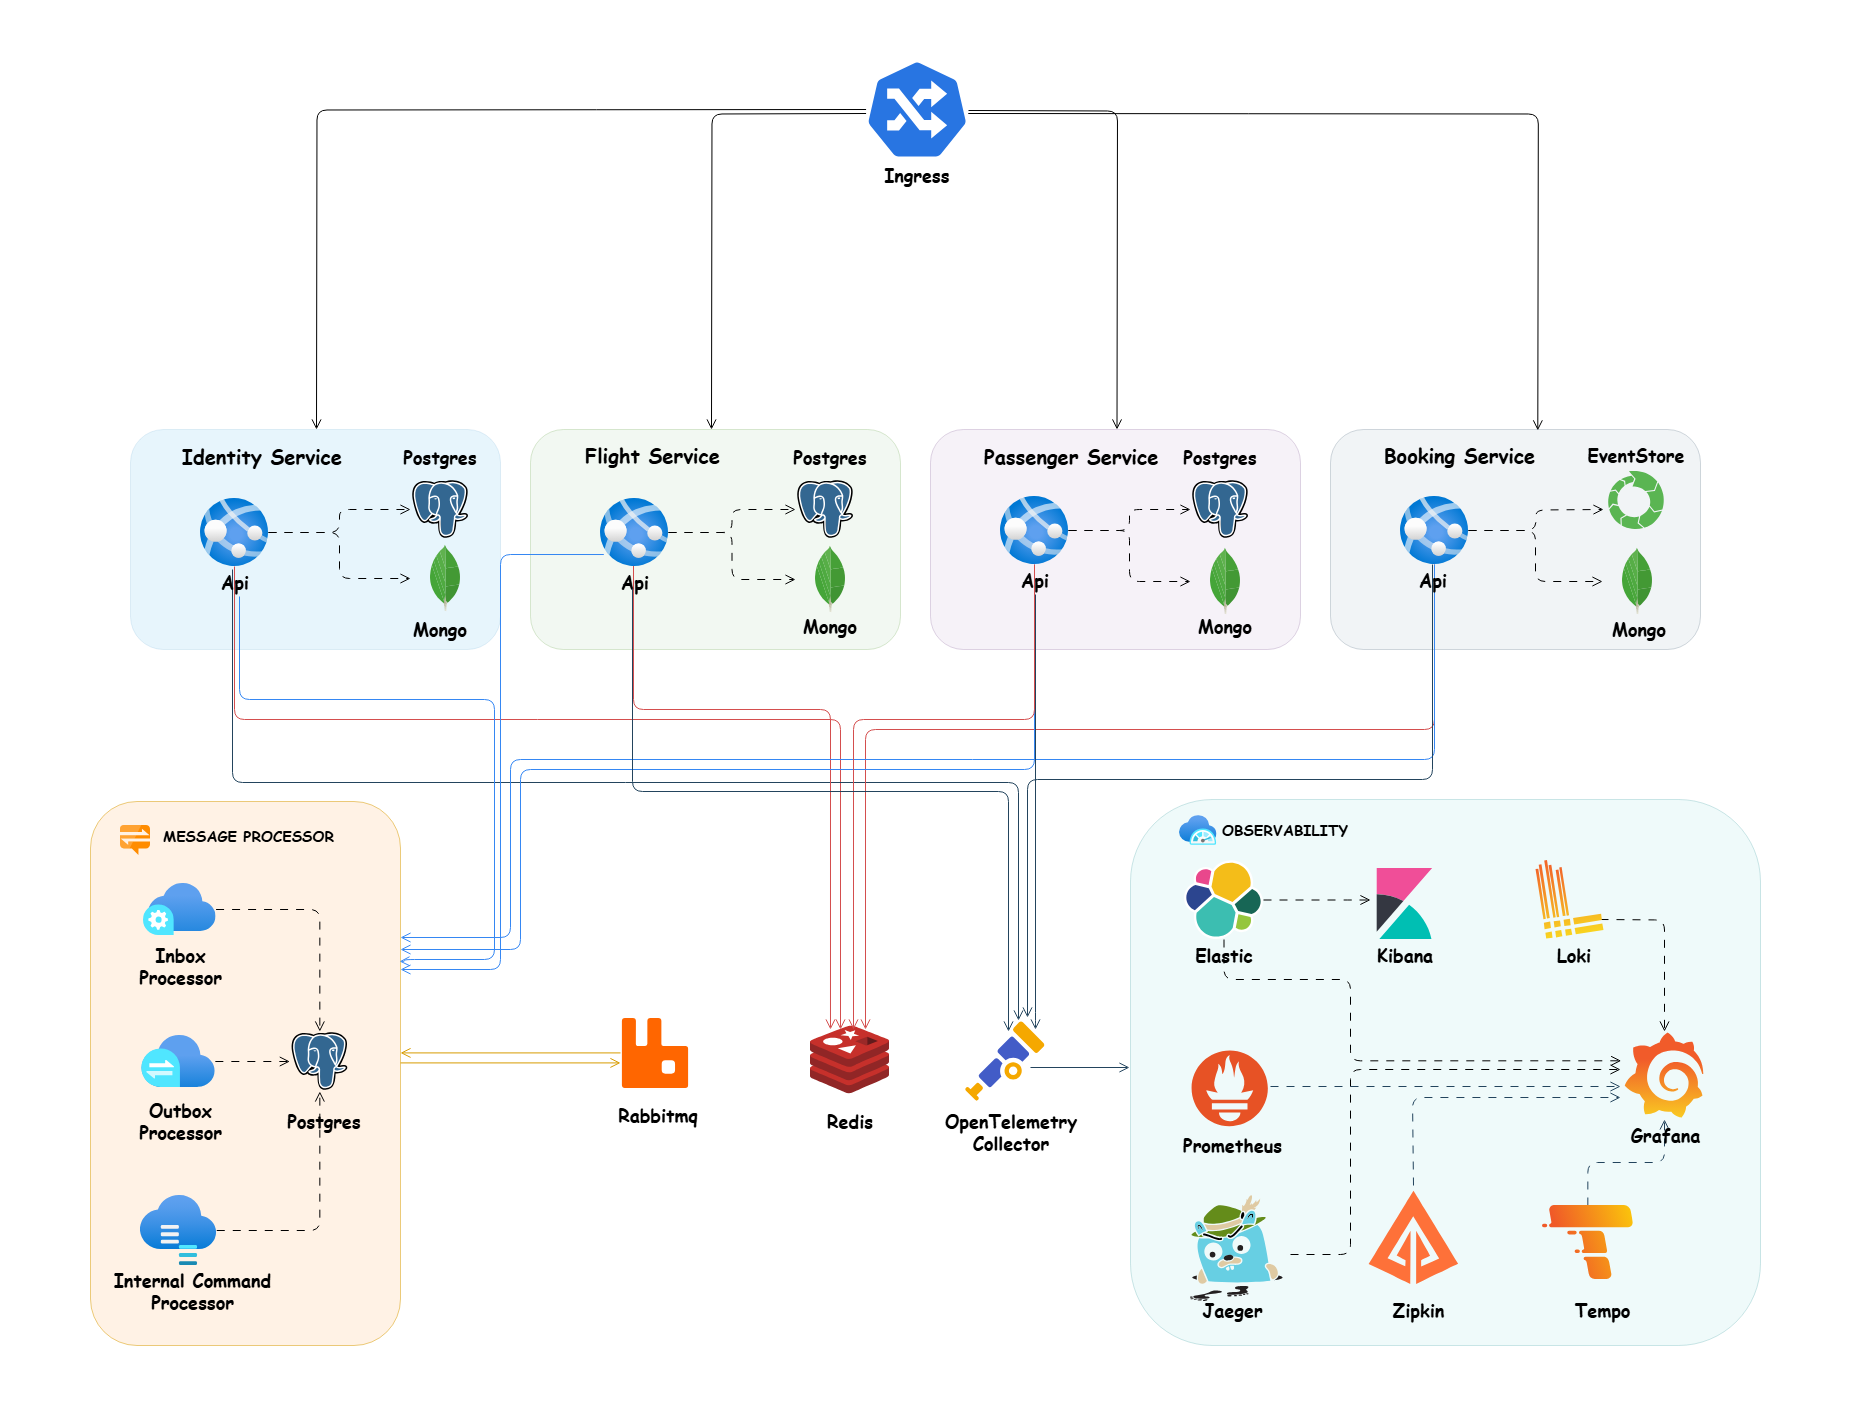
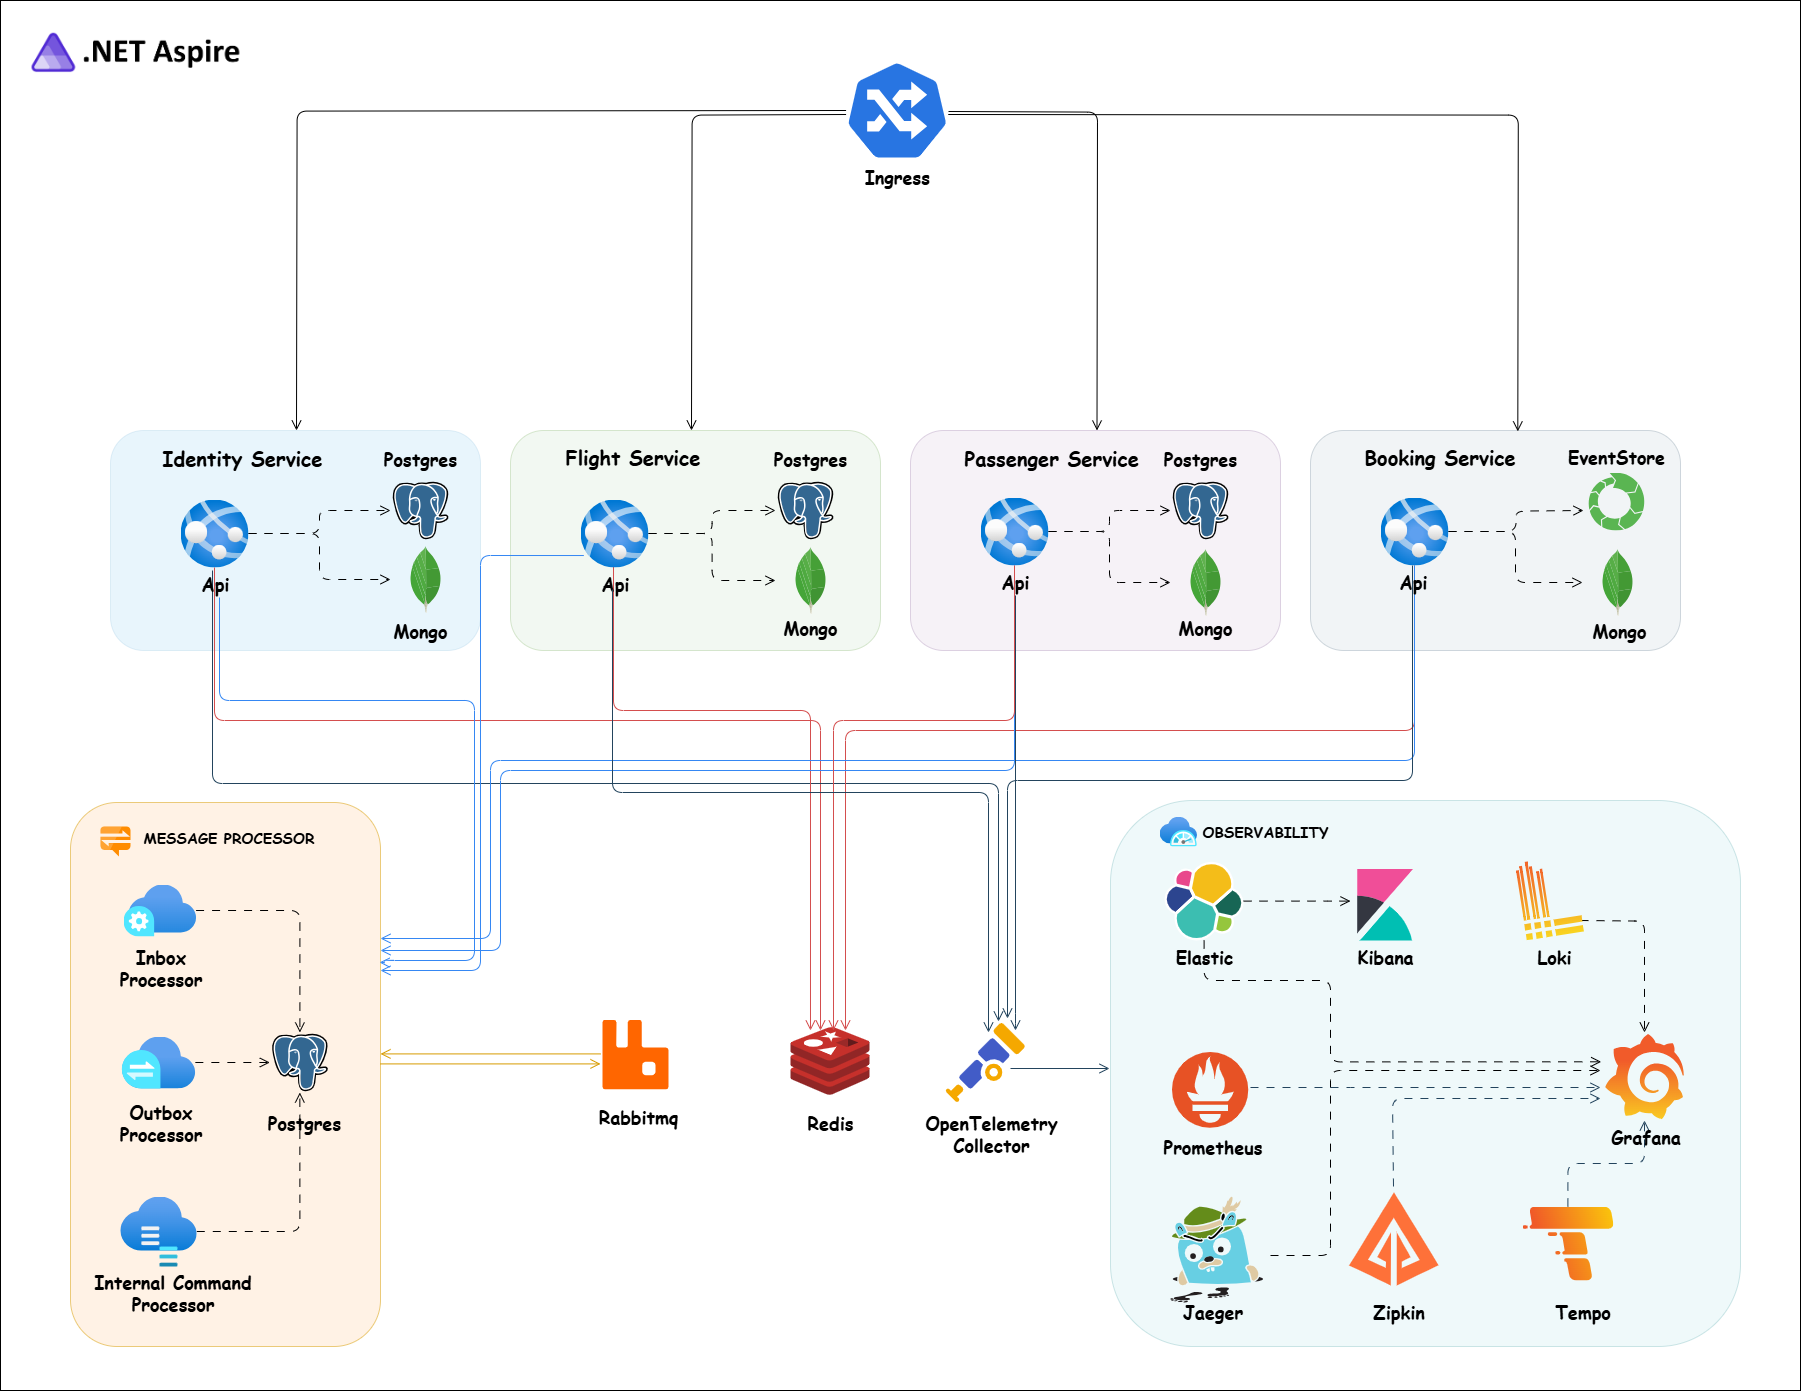
docs: add aspire documentation

diff --git a/README.md b/README.md
@@ -34,6 +34,7 @@
     - [Upgrade Nuget Packages](#upgrade-nuget-packages)
 - [How to Run](#how-to-run)
   - [Config Certificate](#config-certificate)
+  - [Aspire](#aspire)
   - [Docker Compose](#docker-compose)
   - [Kubernetes](#kubernetes)
   - [Build](#build)
@@ -204,13 +205,24 @@ Run the following commands to [Config SSL](https://docs.microsoft.com/en-us/aspn
 dotnet dev-certs https -ep %USERPROFILE%\.aspnet\https\aspnetapp.pfx -p password
 dotnet dev-certs https --trust
 ```
-***Note:** for running this command in `powershell` use `$env:USERPROFILE` instead of `%USERPROFILE%`*
+> Note: for running this command in `powershell` use `$env:USERPROFILE` instead of `%USERPROFILE%`*
 
 #### macOS or Linux
 ```bash
 dotnet dev-certs https -ep ${HOME}/.aspnet/https/aspnetapp.pfx -p $CREDENTIAL_PLACEHOLDER$
 dotnet dev-certs https --trust
 ```
+
+### Aspire
+
+To run the application using the `ASPIRE App Host`, execute the following command from the solution root:
+
+```bash
+dotnet run --project ./src/Aspire/src/AppHost
+```
+
+> Note:The `ASPIRE dashboard` will be available at `http://localhost:18888`
+
 > ### Docker Compose
 
 
